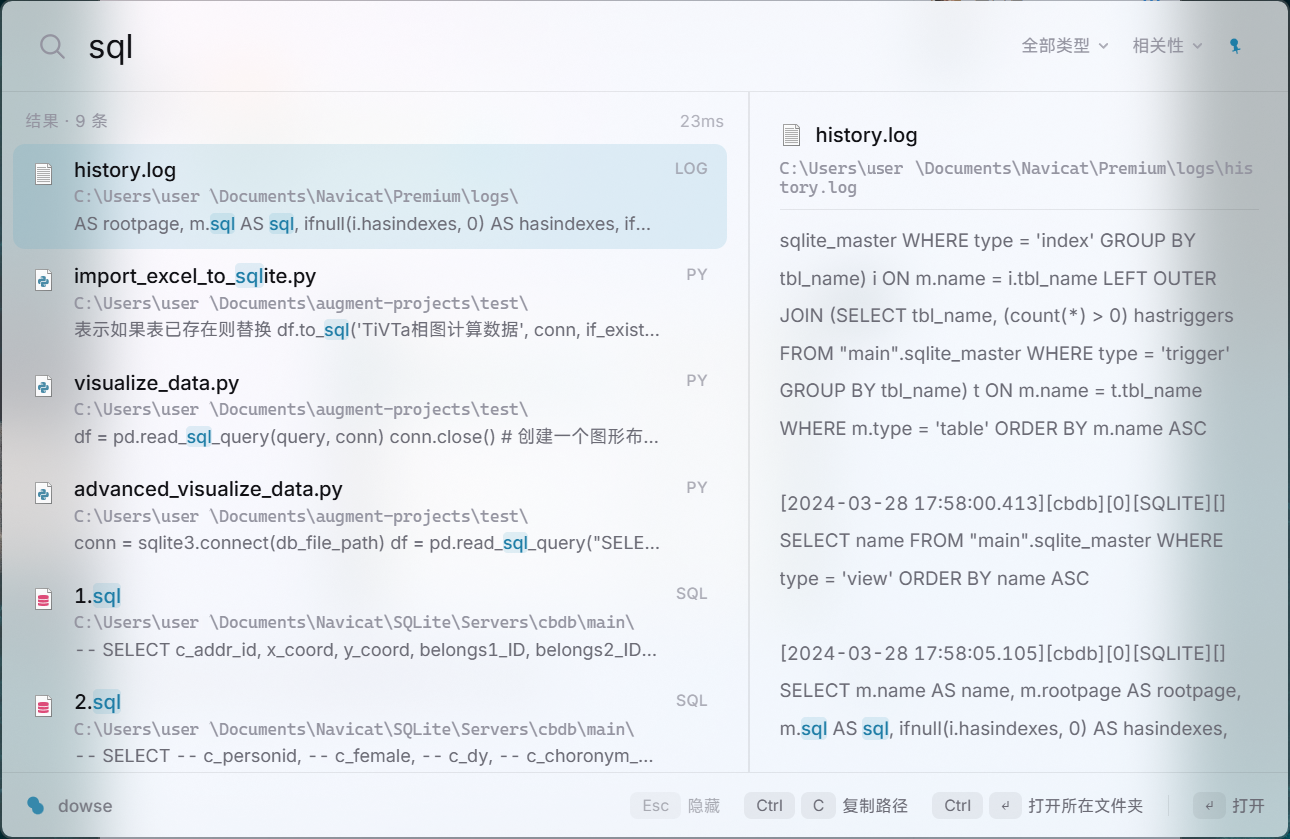
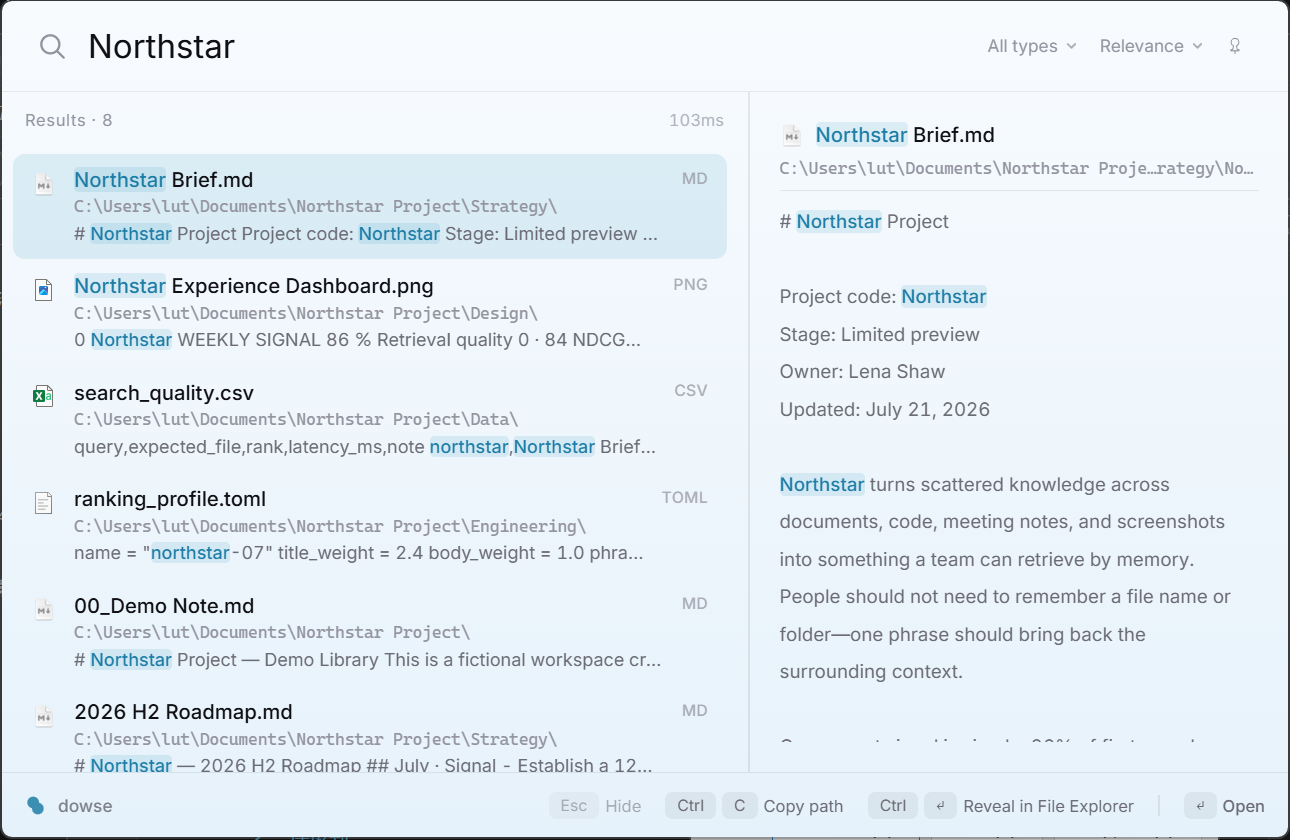
docs: refresh README screenshots

diff --git a/README.zh-CN.md b/README.zh-CN.md
@@ -29,7 +29,7 @@
 
 英文名取自 dowsing rod（探水杖）；中文名「问渠」，取朱熹《观书有感》"问渠那得清如许，为有源头活水来"——探水杖找水，问渠亦问水：你的文件是源头，dowse 让你随时问得到。
 
-![dowse 浮窗搜索中途，查询词"sql"，下方是排好序的文件结果，右侧是预览区](docs/screenshots/hero.png)
+![dowse 浮窗搜索“北极星”，左侧展示排好序的项目资料，右侧直接预览一页简报](docs/screenshots/hero.zh-CN.png)
 
 ## 动机
 
@@ -146,7 +146,9 @@ cargo tauri build      # 安装包产出在 target/release/bundle 下
 会列出最近搜索（本地保存最近 10 条），`↑↓`/`Enter` 复用，`Delete` 删除单条。
 `Ctrl+,` 打开设置面板——通用（呼出键改键/透明度/开机自启/界面语言）与索引规则（排除目录/追加文本扩展名/单文件体积上限）两区。
 
-![预览区展示一条图片类结果：原图内嵌显示，旁边是 OCR 识别出的文字及命中词高亮](docs/screenshots/ocr-preview.png)
+![dowse 中文设置面板，包含呼出快捷键、透明效果、透明度、开机自启和界面语言](docs/screenshots/settings.zh-CN.png)
+
+![预览区展示“北极星体验看板”图片：原图内嵌显示，下方是 OCR 识别出的文字及命中词高亮](docs/screenshots/ocr-preview.zh-CN.png)
 
 ## MCP 接入
 
@@ -162,8 +164,6 @@ claude mcp add dowse -- dowse mcp
 元信息）、`index_status`（文档总数、索引健康状态、当前索引规则）。这个 server 绝不碰索引写入端——每次
 调用前只做一次 reader reload，所以可以和浮窗应用或正在跑的 `dowse watch` 同时存在，
 不会有写入冲突。
-
-![浮窗空闲态，后台正在对截图做 OCR 索引，底部是进度条](docs/screenshots/actions.png)
 
 ## 架构
 

diff --git a/README.md b/README.md
@@ -29,7 +29,7 @@ English | [简体中文](README.zh-CN.md)
 
 The name comes from a dowsing rod.
 
-![dowse overlay mid-search, query "sql" with ranked file results and a live preview pane](docs/screenshots/hero.png)
+![Dowse searching the fictional Northstar workspace, with ranked project files on the left and a live brief preview on the right](docs/screenshots/hero.png)
 
 ## Motivation
 
@@ -140,6 +140,8 @@ cargo tauri build      # produces the installer under target/release/bundle
 
 Overlay app: `Alt+\`` to summon, `↑↓` to select, `Enter` to open, `Ctrl+Enter` to reveal in Explorer, `Ctrl+C` to copy path, `Esc` to hide. Two nearly invisible dropdowns sit at the right of the search bar — file type filter (`Ctrl+P`) and sort order (`Ctrl+S`, relevance / newest / oldest / largest); both stay faint until you select a non-default value. Right-click a result row for a native Explorer-style context menu (open / reveal in folder / copy path / copy name). A pin toggle at the top-right keeps the window open when it loses focus (session-only, resets on restart). With an empty input, the overlay lists your recent searches (last 10, stored locally) — `↑↓`/`Enter` to reuse one, `Delete` to remove it. `Ctrl+,` opens the settings panel — general (hotkey rebinding, transparency, autostart, interface language) and index rules (excluded directories, extra text extensions, per-file size cap).
 
+![Dowse settings panel in English, with controls for the global shortcut, transparency, startup behavior, and interface language](docs/screenshots/settings.png)
+
 ![Preview pane for an image result: the source image rendered inline next to its OCR-extracted text with the matched terms highlighted](docs/screenshots/ocr-preview.png)
 
 ## MCP server
@@ -151,8 +153,6 @@ claude mcp add dowse -- dowse mcp
 ```
 
 Three tools: `search` (query, limit, `sort` by relevance / mtime / size, comma-separated `ext` filter, `offset` pagination with a `total_hits` count), `preview` (full snippet + metadata for one hit), `index_status` (document count, index health, active index rules). The server never touches the index writer — it only reloads the reader before each call, so it can run alongside the overlay app or a live `dowse watch` session without write contention.
-
-![Idle overlay while a background OCR pass indexes screenshots, with a progress bar at the bottom](docs/screenshots/actions.png)
 
 ## Architecture
 